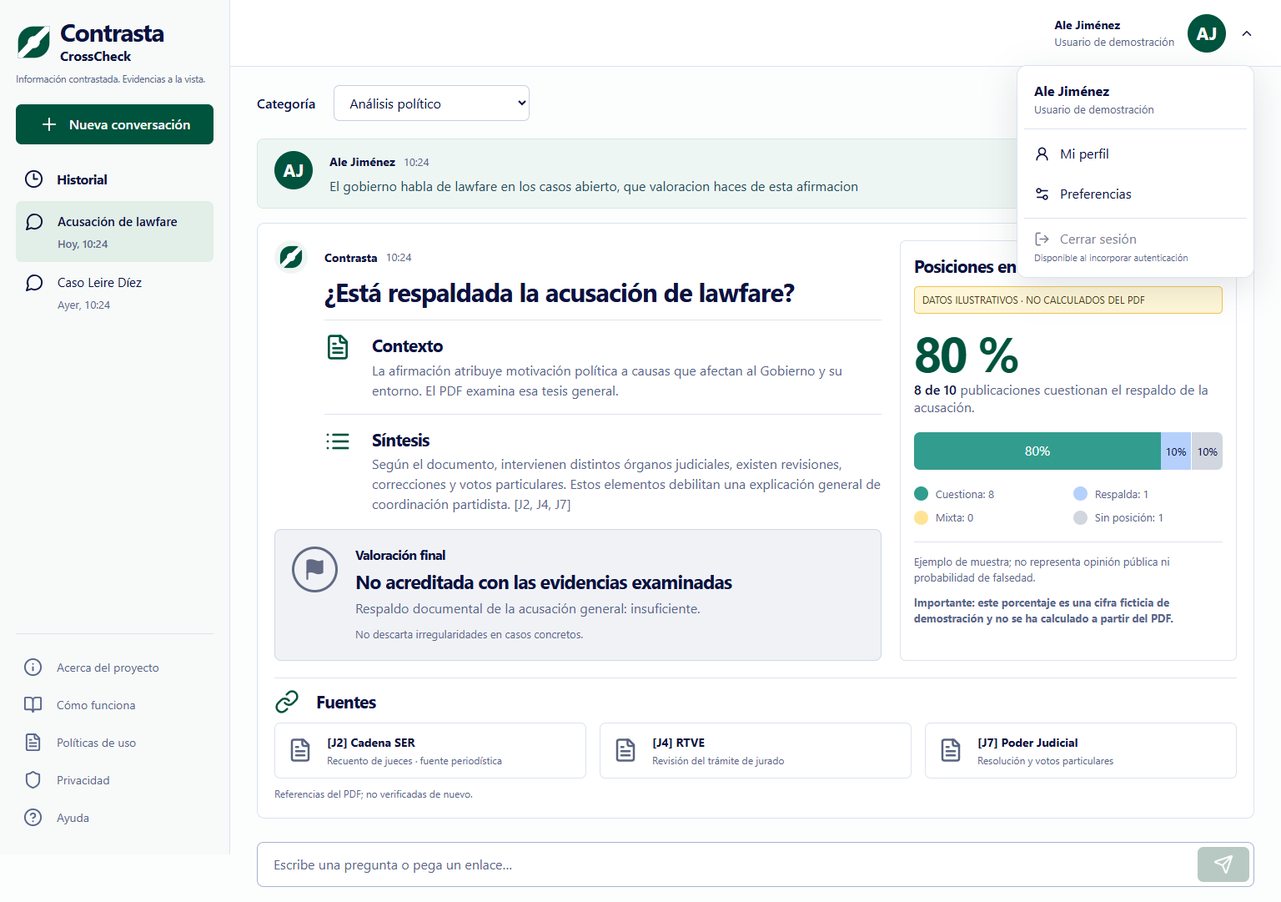
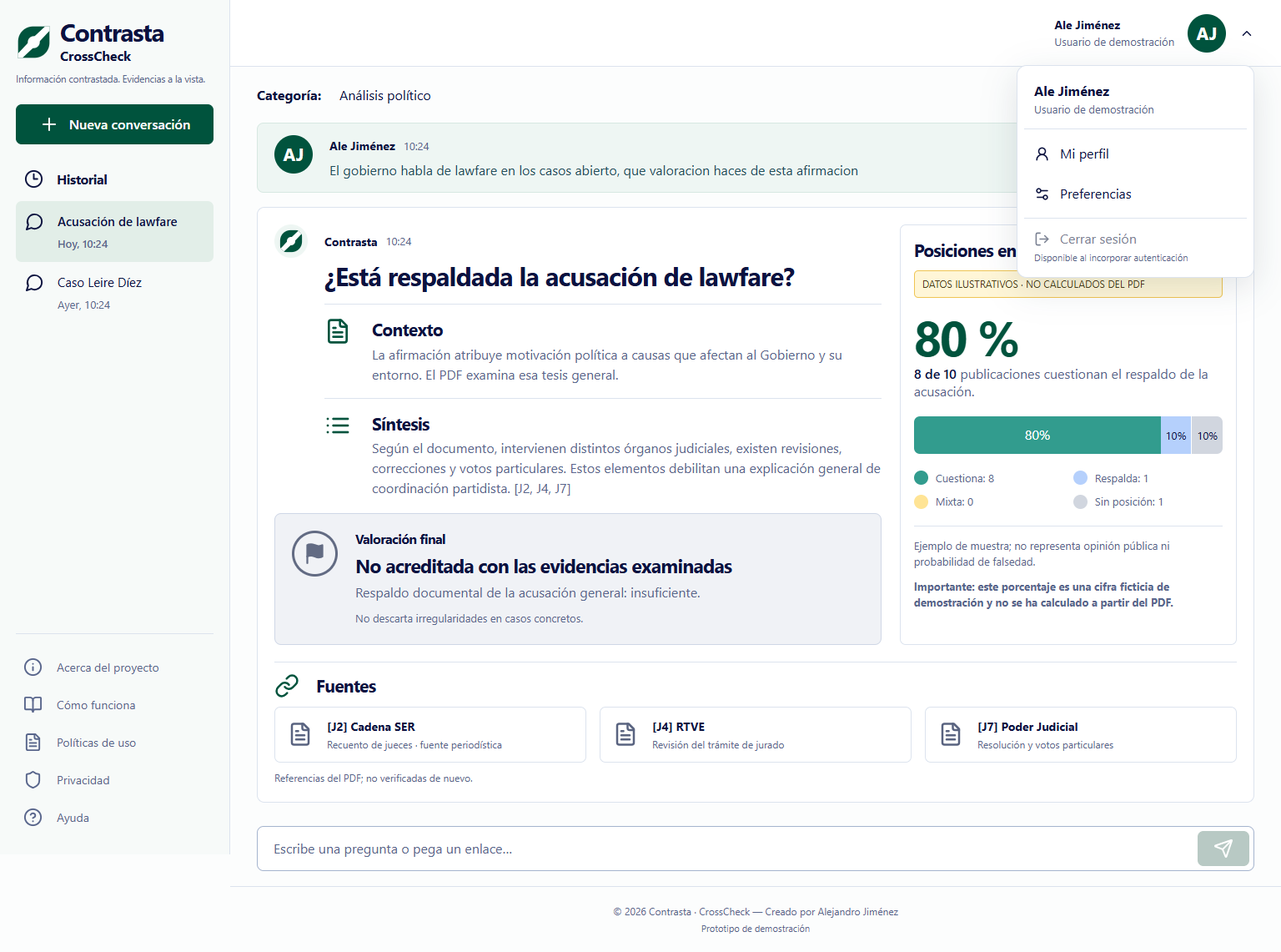
chore: update project from old location

diff --git a/POC/webapp/src/features/analysis/AnalysisPage.tsx b/POC/webapp/src/features/analysis/AnalysisPage.tsx
@@ -1,7 +1,7 @@
 import { useState } from 'react';
 import { FileText, Flag, Link as LinkIcon, List, Send } from 'lucide-react';
 import { demoAnalysis as data } from '../../mocks/analysis';
-import { CategorySelector } from '../../shared/ui/CategorySelector';
+import { categories } from '../../shared/model/categories';
 import { Dialog } from '../../shared/ui/Dialog';
 import s from './Analysis.module.css';
 
@@ -9,7 +9,7 @@ export function AnalysisPage() {
   const [source, setSource] = useState<typeof data.sources[number] | null>(null);
   const [followUp, setFollowUp] = useState('');
   const [notice, setNotice] = useState('');
-  return <div className={s.page}><div className={s.toolbar}><div><CategorySelector /></div><small>Basado en el PDF aportado · Corte: 11/09/2026</small></div><section className={s.message} aria-label="Consulta de demostración"><span className="avatar">AJ</span><div><strong>Ale Jiménez</strong><time>10:24</time><p>{data.query}</p></div></section><div className={s.report}><article className={s.article}><div className={s.author}><img src="/assets/brand.svg" alt="" /><strong>Contrasta</strong><time>10:24</time></div><h1>{data.title}</h1><section className={s.textSection}><FileText /><div><h2>Contexto</h2><p>{data.context}</p></div></section><section className={s.textSection}><List /><div><h2>Síntesis</h2><p>{data.summary}</p></div></section><section className={s.verdict}><span className={s.flag}><Flag /></span><div><h2>Valoración final</h2><h3>{data.verdict}</h3><p>Respaldo documental de la acusación general: insuficiente.</p><small>No descarta irregularidades en casos concretos.</small></div></section></article>
+  return <div className={s.page}><div className={s.toolbar}><div><strong>Categoría:</strong><span>{categories[0].name}</span></div><small>Basado en el PDF aportado · Corte: 11/09/2026</small></div><section className={s.message} aria-label="Consulta de demostración"><span className="avatar">AJ</span><div><strong>Ale Jiménez</strong><time>10:24</time><p>{data.query}</p></div></section><div className={s.report}><article className={s.article}><div className={s.author}><img src="/assets/brand.svg" alt="" /><strong>Contrasta</strong><time>10:24</time></div><h1>{data.title}</h1><section className={s.textSection}><FileText /><div><h2>Contexto</h2><p>{data.context}</p></div></section><section className={s.textSection}><List /><div><h2>Síntesis</h2><p>{data.summary}</p></div></section><section className={s.verdict}><span className={s.flag}><Flag /></span><div><h2>Valoración final</h2><h3>{data.verdict}</h3><p>Respaldo documental de la acusación general: insuficiente.</p><small>No descarta irregularidades en casos concretos.</small></div></section></article>
       <aside className={s.positions}><h2>Posiciones en las publicaciones</h2><span className={s.warning}>Datos ilustrativos · no calculados del PDF</span><strong className={s.percentage}>80 %</strong><p><strong>8 de 10</strong> publicaciones cuestionan el respaldo de la acusación.</p><div className={s.bar} role="img" aria-label="Cuestiona 80 %, respalda 10 %, mixta 0 %, sin posición 10 %"><span>80%</span><span>10%</span><span>10%</span></div><ul className={s.legend}><li>Cuestiona: 8</li><li>Respalda: 1</li><li>Mixta: 0</li><li>Sin posición: 1</li></ul><div className={s.scope}><p>Ejemplo de muestra; no representa opinión pública ni probabilidad de falsedad.</p><p><strong>Importante: este porcentaje es una cifra ficticia de demostración y no se ha calculado a partir del PDF.</strong></p></div></aside>
       <section className={s.sources}><h2><LinkIcon />Fuentes</h2><div>{data.sources.map(item => <button key={item.id} onClick={() => setSource(item)}><FileText /><span><strong>[{item.id}] {item.name}</strong><small>{item.description}</small></span></button>)}</div><small>Referencias del PDF; no verificadas de nuevo.</small></section></div>
     <form className={s.composer} onSubmit={e => { e.preventDefault(); if (followUp.trim()) { setNotice('Prototipo: el análisis mostrado es un ejemplo fijo. Los seguimientos estarán disponibles al conectar el servicio de análisis.'); setFollowUp(''); } }}><label className="srOnly" htmlFor="follow-up">Pregunta de seguimiento</label><input id="follow-up" value={followUp} onChange={e => setFollowUp(e.target.value)} placeholder="Escribe una pregunta o pega un enlace…" /><button className="primary" disabled={!followUp.trim()} aria-label="Enviar seguimiento"><Send /></button></form>{notice && <p className={s.notice} role="status">{notice}</p>}

diff --git a/POC/webapp/src/features/home/HomePage.tsx b/POC/webapp/src/features/home/HomePage.tsx
@@ -1,8 +1,9 @@
 import { useRef, useState } from 'react';
 import { useNavigate } from 'react-router-dom';
-import { ArrowRight, ChevronRight, FileText, Link as LinkIcon, MessageCircle } from 'lucide-react';
+import { TriangleAlert, ArrowRight, ChevronRight, FileText, Link as LinkIcon, MessageCircle } from 'lucide-react';
 import { CategorySelector } from '../../shared/ui/CategorySelector';
 import s from './Home.module.css';
+import { categories } from '../../shared/model/categories';
 
 const ideas = [
   { text: '¿Qué evidencias respaldan esta declaración?', icon: MessageCircle },
@@ -11,10 +12,12 @@ const ideas = [
 ];
 export function HomePage() {
   const [query, setQuery] = useState('');
+  const [categoryId, setCategoryId] = useState(categories[0].id);
+  const category = categories.find(item => item.id === categoryId)!;
   const input = useRef<HTMLTextAreaElement>(null);
   const navigate = useNavigate();
   return <div className={s.page}><div className={s.intro}><div className={s.bubble}><MessageCircle /></div><h1>¿Qué información quieres contrastar?</h1><p>Plantea una afirmación o comparte un enlace.<br />Consulta el análisis, sus fuentes y la valoración final.</p></div>
-    <form className={s.form} onSubmit={e => { e.preventDefault(); if (query.trim()) navigate('/resultados'); }}><div className={s.category}><CategorySelector /></div><div className={s.description}><FileText /><p>Contrasta afirmaciones y declaraciones políticas, comprende su contexto y distingue hechos documentados, opiniones e interpretaciones.</p></div><label htmlFor="query">Tu consulta</label><textarea ref={input} id="query" value={query} onChange={e => setQuery(e.target.value)} placeholder="Escribe una pregunta, una afirmación o pega un enlace…" aria-describedby="query-help" /><div className={s.formFooter}><small id="query-help">Admite texto y enlaces</small><button className="primary" type="submit" disabled={!query.trim()}>Analizar<ArrowRight size={20} /></button></div></form>
-    <section className={s.suggestions}><h2>Prueba con una idea</h2><div className={s.ideas}>{ideas.map(({ text, icon: Icon }) => <button key={text} onClick={() => { setQuery(text); input.current?.focus(); }}><Icon /><span>{text}</span><ChevronRight className={s.chevron} /></button>)}</div><p>Selecciona un ejemplo y completa tu consulta antes de analizar.</p></section>
+    <form className={s.form} onSubmit={e => { e.preventDefault(); if (category.available && query.trim()) navigate('/resultados'); }}><div className={s.category}><CategorySelector value={categoryId} onChange={setCategoryId} /></div><div className={s.description}><FileText /><p id="category-description">{category.description}</p></div><div id="category-availability" role="status">{!category.available && <p className={s.unavailable}><TriangleAlert size={20} /><span>Esta categoría aún no está disponible. Próximamente podrás realizar consultas sobre este tema.</span></p>}</div><label htmlFor="query">Tu consulta</label><textarea ref={input} id="query" disabled={!category.available} value={query} onChange={e => setQuery(e.target.value)} placeholder="Escribe una pregunta, una afirmación o pega un enlace…" aria-describedby="query-help" /><div className={s.formFooter}><small id="query-help">Admite texto y enlaces</small><button className="primary" type="submit" disabled={!category.available || !query.trim()}>Analizar<ArrowRight size={20} /></button></div></form>
+    <section className={s.suggestions}><h2>Prueba con una idea</h2><div className={s.ideas}>{ideas.map(({ text, icon: Icon }) => <button key={text} disabled={!category.available} onClick={() => { setQuery(text); input.current?.focus(); }}><Icon /><span>{text}</span><ChevronRight className={s.chevron} /></button>)}</div><p>Selecciona un ejemplo y completa tu consulta antes de analizar.</p></section>
   </div>;
 }

diff --git a/POC/webapp/src/shared/ui/CategorySelector.tsx b/POC/webapp/src/shared/ui/CategorySelector.tsx
@@ -1,3 +1,52 @@
-export function CategorySelector() {
-  return <><label htmlFor="category">Categoría</label><select id="category" defaultValue="political"><option value="political">Análisis político</option></select></>;
+import { categories } from '../model/categories';
+import { useEffect, useRef, useState, type KeyboardEvent } from 'react';
+import { Check, ChevronDown } from 'lucide-react';
+import s from './CategorySelector.module.css';
+
+export function CategorySelector({ value, onChange }: { value: string; onChange: (value: string) => void }) {
+  const selected = categories.findIndex(category => category.id === value);
+  const [open, setOpen] = useState(false);
+  const [active, setActive] = useState(selected);
+  const root = useRef<HTMLDivElement>(null);
+  const search = useRef({ text: '', time: 0 });
+  useEffect(() => {
+    if (!open) return;
+    const outside = (event: PointerEvent) => {
+      if (!root.current?.contains(event.target as Node)) setOpen(false);
+    };
+    document.addEventListener('pointerdown', outside);
+    return () => document.removeEventListener('pointerdown', outside);
+  }, [open]);
+  useEffect(() => {
+    if (open) root.current?.querySelector(`#category-option-${active}`)?.scrollIntoView({ block: 'nearest' });
+  }, [open, active]);
+  function keyDown(event: KeyboardEvent<HTMLButtonElement>) {
+    if (event.key === 'Tab') { setOpen(false); return; }
+    if (event.key === 'Escape') { event.preventDefault(); setOpen(false); return; }
+    if (['ArrowDown', 'ArrowUp', 'Home', 'End'].includes(event.key)) {
+      event.preventDefault();
+      setOpen(true);
+      setActive(event.key === 'Home' ? 0 : event.key === 'End' ? categories.length - 1 :
+        !open ? selected : Math.max(0, Math.min(categories.length - 1, active + (event.key === 'ArrowDown' ? 1 : -1))));
+    } else if (event.key === 'Enter' || event.key === ' ') {
+      event.preventDefault();
+      if (open) { onChange(categories[active].id); setOpen(false); }
+      else { setActive(selected); setOpen(true); }
+    } else if (event.key.length === 1 && !event.ctrlKey && !event.metaKey && !event.altKey) {
+      event.preventDefault();
+      const text = (Date.now() - search.current.time < 700 ? search.current.text : '') + event.key;
+      search.current = { text, time: Date.now() };
+      const match = categories.findIndex(category => category.name.toLocaleLowerCase('es').startsWith(text.toLocaleLowerCase('es')));
+      if (match >= 0) { setActive(match); setOpen(true); }
+    }
+  }
+  return <div ref={root} className={s.root} onBlur={event => { if (!event.currentTarget.contains(event.relatedTarget)) setOpen(false); }}>
+    <label id="category-label" htmlFor="category">Categoría</label>
+    <button type="button" id="category" role="combobox" aria-labelledby="category-label category-value" aria-haspopup="listbox" aria-expanded={open} aria-controls="category-options" aria-activedescendant={open ? `category-option-${active}` : undefined} aria-describedby="category-description category-availability" className={s.trigger} onKeyDown={keyDown} onClick={() => { setActive(selected); setOpen(!open); }}>
+      <span id="category-value">{categories[selected].name}</span><ChevronDown size={18} />
+    </button>
+    {open && <ul id="category-options" role="listbox" aria-labelledby="category-label" className={s.options}>
+      {categories.map((category, index) => <li id={`category-option-${index}`} key={category.id} role="option" aria-selected={category.id === value} className={index === active ? s.active : undefined} onPointerDown={event => event.preventDefault()} onClick={() => { onChange(category.id); setOpen(false); }}><span>{category.name}</span>{category.id === value && <Check size={18} aria-hidden="true" />}</li>)}
+    </ul>}
+  </div>;
 }

diff --git a/POC/webapp/src/app/App.tsx b/POC/webapp/src/app/App.tsx
@@ -22,7 +22,7 @@ export function App() {
   useEffect(() => { setMobile(false); window.scrollTo(0, 0); }, [location]);
   useEffect(() => { if (mobile) drawer.current?.showModal(); else drawer.current?.close(); }, [mobile]);
   const navigation = <><Link className="primary newConversation" to="/" onClick={() => setMobile(false)}><Plus />Nueva conversación</Link><div className={s.history}><h2><Clock3 />Historial</h2><Link className={location.pathname === '/resultados' ? s.selected : ''} to="/resultados"><MessageCircle /><span>Acusación de lawfare<small>Hoy, 10:24</small></span></Link><button onClick={() => { setMobile(false); setSection('Caso Leire Díez'); }}><MessageCircle /><span>Caso Leire Díez<small>Ayer, 10:24</small></span></button></div><nav className={s.footer} aria-label="Información del proyecto">{sections.map(({ title, icon: Icon }) => <button key={title} onClick={() => { setMobile(false); setSection(title); }}><Icon />{title}</button>)}</nav></>;
-  return <div className={s.shell}><a className="skipLink" href="#main">Saltar al contenido</a><aside className={s.sidebar}><Link to="/" aria-label="Contrasta, inicio"><Brand /></Link>{navigation}</aside><header className={s.header}><button className={`iconButton ${s.mobileToggle}`} aria-label="Abrir navegación" aria-expanded={mobile} onClick={() => setMobile(true)}><Menu /></button><Link className={s.mobileBrand} to="/" aria-label="Contrasta, inicio"><Brand /></Link><AccountMenu onSelect={setSection} /></header><main id="main" className={s.main}><Outlet /></main>
+  return <div className={s.shell}><a className="skipLink" href="#main">Saltar al contenido</a><aside className={s.sidebar}><Link to="/" aria-label="Contrasta, inicio"><Brand /></Link>{navigation}</aside><header className={s.header}><button className={`iconButton ${s.mobileToggle}`} aria-label="Abrir navegación" aria-expanded={mobile} onClick={() => setMobile(true)}><Menu /></button><Link className={s.mobileBrand} to="/" aria-label="Contrasta, inicio"><Brand /></Link><AccountMenu onSelect={setSection} /></header><main id="main" className={s.main}><Outlet /></main><footer className={s.pageFooter}><p>© {new Date().getFullYear()} Contrasta · CrossCheck — Creado por Alejandro Jiménez</p><small>Prototipo de demostración</small></footer>
     <dialog ref={drawer} className={s.drawer} onCancel={() => setMobile(false)} onClick={e => { if (e.target === e.currentTarget) setMobile(false); }} aria-label="Navegación"><div className={s.drawerContent}><div className={s.drawerHead}><Brand /><button className="iconButton" aria-label="Cerrar navegación" onClick={() => setMobile(false)}><X /></button></div>{navigation}</div></dialog>
     {section && <Dialog title={section} onClose={() => setSection(null)}>{section === 'Mi perfil' ? <><span className="avatar">AJ</span><h3>Ale Jiménez</h3><p>Usuario de demostración</p><p>Este perfil ilustra el menú de cuenta del prototipo.</p></> : section === 'Preferencias' ? <><p>Apariencia</p><div className="preference"><span>Tema claro</span><span className="pill">Activo</span></div><p>El prototipo utiliza la apariencia de los mockups v4. Las opciones de tema estarán disponibles en una próxima versión.</p></> : <p>{sections.find(item => item.title === section)?.text ?? 'Esta conversación aparece como ejemplo visual en el historial. El análisis disponible en este prototipo es «Acusación de lawfare».'}</p>}</Dialog>}
   </div>;

diff --git a/POC/webapp/src/shared/model/categories.ts b/POC/webapp/src/shared/model/categories.ts
@@ -1,0 +1,62 @@
+export const categories = [
+  {
+    "id": "political",
+    "name": "Análisis político",
+    "description": "Contrasta afirmaciones y declaraciones políticas, aporta contexto y distingue hechos, posiciones e interpretaciones. Incluye el análisis de afirmaciones sobre causas judiciales vinculadas a la política, respetando estados procesales y evitando equiparar investigación con culpabilidad.",
+    "available": true
+  },
+  {
+    "id": "category-1",
+    "name": "Noticias falsas y bulos",
+    "description": "Examina noticias virales, cadenas y contenidos potencialmente inventados, manipulados o fuera de contexto; busca su origen y evidencias que los respalden o contradigan.",
+    "available": false
+  },
+  {
+    "id": "category-2",
+    "name": "Sociedad, medios y entretenimiento",
+    "description": "Analiza audiencias de televisión, fenómenos sociales, celebridades y afirmaciones sobre contenidos culturales. Distingue datos verificables, declaraciones e interpretaciones.",
+    "available": false
+  },
+  {
+    "id": "category-3",
+    "name": "Consumo, ocio y viajes",
+    "description": "Contrasta comparaciones de productos, restaurantes, campings, alojamientos y servicios. Diferencia características comprobables, reseñas y preferencias; explicita los criterios de cada recomendación.",
+    "available": false
+  },
+  {
+    "id": "category-4",
+    "name": "Estafas, timos y publicidad engañosa",
+    "description": "Analiza ofertas sospechosas, suplantaciones, mensajes fraudulentos y promesas comerciales. Incluye consultas sobre posibles llamadas fraudulentas, sin una categoría telefónica propia. Distingue señales de riesgo de engaños documentados y evita convertir la ausencia de alertas en garantía de seguridad.",
+    "available": false
+  },
+  {
+    "id": "category-5",
+    "name": "Salud y bienestar",
+    "description": "Examina afirmaciones sobre alimentación, suplementos, tratamientos y hábitos, atendiendo a la calidad de la evidencia y sus límites. No sustituye una valoración médica individual.",
+    "available": false
+  },
+  {
+    "id": "category-6",
+    "name": "Ciencia, tecnología y medioambiente",
+    "description": "Contrasta afirmaciones sobre descubrimientos, capacidades de la IA, privacidad, energía y cuestiones ambientales, diferenciando evidencia, hipótesis y expectativas.",
+    "available": false
+  },
+  {
+    "id": "category-7",
+    "name": "Datos y hechos históricos",
+    "description": "Examina fechas, acontecimientos, citas atribuidas y relatos históricos, diferenciando hechos documentados, interpretaciones historiográficas y controversias.",
+    "available": false
+  },
+  {
+    "id": "category-8",
+    "name": "Deportes",
+    "description": "Contrasta resultados, estadísticas, récords y declaraciones deportivas, precisando competición, temporada, categoría y fecha.",
+    "available": false
+  },
+  {
+    "id": "category-9",
+    "name": "General",
+    "description": "Permite analizar consultas que no encajen en ninguna categoría especializada. Delimita la afirmación, aporta contexto y contrasta las fuentes disponibles; solicita criterios o aclaraciones cuando sean necesarios y expresa los límites de la conclusión.",
+    "available": false
+  }
+];

diff --git a/POC/webapp/src/app/layout/Layout.module.css b/POC/webapp/src/app/layout/Layout.module.css
@@ -1,7 +1,10 @@
-.shell { min-height: 100dvh; padding-left: 276px; }
+.shell { display: flex; flex-direction: column; min-height: 100dvh; padding-left: 276px; }
 .sidebar { position: fixed; inset: 0 auto 0 0; width: 276px; padding: 22px 19px; border-right: 1px solid var(--border); display: flex; flex-direction: column; background: #f7faf9; overflow-y: auto; }
 .header { height: 80px; display: flex; align-items: center; justify-content: flex-end; padding: 12px 32px; border-bottom: 1px solid var(--border); background: white; }
-.main { min-width: 0; }
+.main { min-width: 0; flex: 1; }
+.pageFooter { padding: 20px 24px; border-top: 1px solid var(--border); text-align: center; color: var(--muted); font-size: 12px; }
+.pageFooter small { display: block; margin-top: 4px; font-size: 11px; }
+.header { flex-shrink: 0; }
 .history h2 { font-size: 16px; margin: 14px 10px 15px; display: flex; align-items: center; gap: 16px; letter-spacing: -.4px; }
 .history a, .history button { display: flex; width: 100%; padding: 13px 11px; gap: 16px; border-radius: 7px; text-align: left; font-size: 15px; }
 .history svg { flex-shrink: 0; width: 23px; height: 23px; }

diff --git a/POC/webapp/src/shared/ui/CategorySelector.module.css b/POC/webapp/src/shared/ui/CategorySelector.module.css
@@ -1,0 +1,8 @@
+.root { position: relative; min-width: 0; }
+.trigger { display: flex; align-items: center; justify-content: space-between; gap: 12px; width: 100%; min-height: 46px; margin-top: 5px; padding: 10px 14px; text-align: left; background: white; border: 1px solid var(--input-border); border-radius: 7px; }
+.trigger span { min-width: 0; white-space: normal; overflow-wrap: anywhere; }
+.trigger svg, .options svg { flex-shrink: 0; }
+.options { position: absolute; top: 100%; left: 0; right: 0; z-index: 20; margin: 5px 0 0; padding: 5px; list-style: none; max-height: min(320px, 45dvh); overflow-y: auto; overscroll-behavior: contain; background: white; border: 1px solid var(--input-border); border-radius: 8px; box-shadow: 0 8px 24px #13283820; }
+.options li { display: flex; align-items: center; justify-content: space-between; gap: 10px; min-height: 44px; padding: 10px; border-radius: 4px; cursor: pointer; white-space: normal; overflow-wrap: anywhere; line-height: 1.4; }
+.options li:hover, .options .active { background: var(--pale-green); color: var(--green); }
+.options [aria-selected='true'] { font-weight: 600; }

diff --git a/POC/webapp/src/features/home/Home.module.css b/POC/webapp/src/features/home/Home.module.css
@@ -42,3 +42,10 @@
   .ideas .chevron { display: block; width: 17px; height: 17px; margin-left: auto; color: var(--muted); }
   .suggestions > p { font-size: 12px; }
 }
+
+.category { min-width: 0; }
+.category select { min-width: 0; max-width: 100%; text-overflow: ellipsis; }
+.unavailable { display: flex; gap: 10px; align-items: flex-start; padding: 12px 14px; margin: -10px 0 22px; color: #725315; background: #fff6d7; border: 1px solid #efcf79; border-radius: 7px; font-size: 14px; }
+.unavailable svg { flex-shrink: 0; margin-top: 2px; }
+.form textarea:disabled { background: #f1f3f5; color: #7c8394; cursor: not-allowed; }
+.ideas button:disabled { opacity: .5; background: #f4f5f6; border-color: var(--border); }

diff --git a/Docs/requisitos-funcionales-poc-pre-mvp.md b/Docs/requisitos-funcionales-poc-pre-mvp.md
@@ -1,6 +1,6 @@
 # Requisitos y funcionalidad — PoC inicial (pre-MVP)
 
-- **Versión:** 1.1
+- **Versión:** 1.2
 - **Fecha:** 16 de septiembre de 2026
 - **Estado:** alcance acordado para la primera fase.
 - **Nombre definitivo:** pendiente. Los mockups utilizan «Contrasta», con «CrossCheck» como denominación secundaria y el lema «Información contrastada. Evidencias a la vista.». No implica disponibilidad de marca o dominio.
@@ -52,24 +52,27 @@ Cada categoría se asociará a un agente con instrucciones, criterios de contras
 | Categoría | Descripción | Disponibilidad |
 |---|---|---|
 | **Análisis político** | Contrasta afirmaciones y declaraciones políticas, aporta contexto y distingue hechos, posiciones e interpretaciones. Incluye el análisis de afirmaciones sobre causas judiciales vinculadas a la política, respetando estados procesales y evitando equiparar investigación con culpabilidad. | Única categoría activa |
-| **Noticias falsas o bulos** | Examina contenidos potencialmente falsos, manipulados o descontextualizados; busca su origen y evidencias que los respalden o contradigan. | Futura |
-| **Deportes** | Contrasta resultados, estadísticas, récords y afirmaciones deportivas, precisando competición, temporada, categoría y fecha. | Futura |
-| **Datos y hechos históricos** | Examina fechas, acontecimientos y relatos históricos, diferenciando hechos documentados, interpretaciones historiográficas y controversias. | Futura |
-| **Estafas publicitarias y timos** | Analiza ofertas, promociones y mensajes para identificar promesas engañosas e indicios de fraude. Distingue señales de riesgo de engaños documentados y evita convertir la ausencia de alertas en garantía de seguridad. | Futura |
-| **Sociedad** | Analiza afirmaciones sobre actualidad social, televisión, entretenimiento, ocio, turismo, hostelería y servicios cotidianos. Incluye comparaciones de audiencias, establecimientos y recomendaciones, distinguiendo datos verificables, valoraciones de usuarios y preferencias personales. | Futura |
+| **Noticias falsas y bulos** | Examina noticias virales, cadenas y contenidos potencialmente inventados, manipulados o fuera de contexto; busca su origen y evidencias que los respalden o contradigan. | Futura |
+| **Sociedad, medios y entretenimiento** | Analiza audiencias de televisión, fenómenos sociales, celebridades y afirmaciones sobre contenidos culturales. Distingue datos verificables, declaraciones e interpretaciones. | Futura |
+| **Consumo, ocio y viajes** | Contrasta comparaciones de productos, restaurantes, campings, alojamientos y servicios. Diferencia características comprobables, reseñas y preferencias; explicita los criterios de cada recomendación. | Futura |
+| **Estafas, timos y publicidad engañosa** | Analiza ofertas sospechosas, suplantaciones, mensajes fraudulentos y promesas comerciales. Incluye consultas sobre posibles llamadas fraudulentas, sin una categoría telefónica propia. Distingue señales de riesgo de engaños documentados y evita convertir la ausencia de alertas en garantía de seguridad. | Futura |
+| **Salud y bienestar** | Examina afirmaciones sobre alimentación, suplementos, tratamientos y hábitos, atendiendo a la calidad de la evidencia y sus límites. No sustituye una valoración médica individual. | Futura |
+| **Ciencia, tecnología y medioambiente** | Contrasta afirmaciones sobre descubrimientos, capacidades de la IA, privacidad, energía y cuestiones ambientales, diferenciando evidencia, hipótesis y expectativas. | Futura |
+| **Datos y hechos históricos** | Examina fechas, acontecimientos, citas atribuidas y relatos históricos, diferenciando hechos documentados, interpretaciones historiográficas y controversias. | Futura |
+| **Deportes** | Contrasta resultados, estadísticas, récords y declaraciones deportivas, precisando competición, temporada, categoría y fecha. | Futura |
 | **General** | Permite analizar consultas que no encajen en ninguna categoría especializada. Delimita la afirmación, aporta contexto y contrasta las fuentes disponibles; solicita criterios o aclaraciones cuando sean necesarios y expresa los límites de la conclusión. | Futura |
 
 Las categorías futuras se documentan como evolución del producto; no se muestran como opciones seleccionables en esta PoC.
 
 **Una conversación tiene una categoría inmutable. Cambiar de categoría requerirá una nueva conversación.**
 
-### 3.1. Ejemplos y criterios de Sociedad
+### 3.1. Ejemplos de Sociedad y de Consumo, ocio y viajes
 
 Los siguientes ejemplos ilustran consultas admitidas; no constituyen afirmaciones verificadas ni recomendaciones del producto:
 
-- «El Hormiguero es el programa más visto en su franja horaria, por encima de La Revuelta». El análisis debe precisar fechas, franja coincidente y métrica de audiencia: espectadores, cuota u otra medida comparable.
-- «El camping Taiga Conil es más recomendable que el Camping Roche en Conil». El análisis debe explicitar los criterios de comparación —ubicación, instalaciones, precio, servicios o tipo de viaje— y separar características verificables de reseñas y preferencias.
-- «Casa Mané es uno de los mejores restaurantes de Cádiz». El análisis debe delimitar el ámbito geográfico y qué significa «mejor», diferenciando reconocimientos documentados, valoraciones de clientes y opinión subjetiva.
+- **Sociedad, medios y entretenimiento:** «El Hormiguero es el programa más visto en su franja horaria, por encima de La Revuelta». El análisis debe precisar fechas, franja coincidente y métrica de audiencia: espectadores, cuota u otra medida comparable.
+- **Consumo, ocio y viajes:** «El camping Taiga Conil es más recomendable que el Camping Roche en Conil». El análisis debe explicitar los criterios de comparación —ubicación, instalaciones, precio, servicios o tipo de viaje— y separar características verificables de reseñas y preferencias.
+- **Consumo, ocio y viajes:** «Casa Mané es uno de los mejores restaurantes de Cádiz». El análisis debe delimitar el ámbito geográfico y qué significa «mejor», diferenciando reconocimientos documentados, valoraciones de clientes y opinión subjetiva.
 
 En comparaciones y recomendaciones, el agente no debe convertir una preferencia en una verdad universal. Si faltan criterios, los solicitará o hará explícitos los utilizados. Las reseñas no se considerarán automáticamente representativas ni equivalentes a evidencias de calidad objetiva. Si no procede un veredicto factual único, se utilizará una valoración matizada, interpretación u opinión, o sin veredicto único.
 
@@ -77,7 +80,13 @@ En comparaciones y recomendaciones, el agente no debe convertir una preferencia 
 
 General será la opción de cobertura para asuntos no contemplados en las categorías especializadas. No activará una reclasificación automática de una conversación existente: se conserva la categoría seleccionada al iniciarla. Si el asunto requiere otra especialidad, podrá sugerirse abrir una nueva conversación en la categoría correspondiente.
 
-El catálogo previsto queda compuesto por siete categorías. Sociedad y General se incorporan al catálogo futuro; esta revisión no amplía las categorías operativas de la PoC, que sigue incluyendo únicamente Análisis político.
+### 3.3. Selección y solapamientos
+
+Se elegirá la categoría temática cuando el asunto esté claro. «Noticias falsas y bulos» se orienta a verificar contenido viral de origen dudoso; «Estafas, timos y publicidad engañosa», a consultas centradas en un posible fraude o engaño comercial. «General» cubre asuntos sin encaje claro o cuya clasificación el usuario desconozca.
+
+La separación entre Sociedad y Consumo permite especializar el análisis: comparar audiencias requiere métricas y periodos comparables; recomendar un establecimiento exige criterios y preferencias explícitos. La categoría elegida no predetermina el veredicto.
+
+El catálogo previsto queda compuesto por **diez categorías**. Esta revisión no amplía las categorías operativas de la PoC, que sigue incluyendo únicamente **Análisis político**; las otras nueve quedan para fases posteriores.
 
 ## 4. Análisis desde el buscador o editor de consulta
 

diff --git a/Mockups/README-v5.md b/Mockups/README-v5.md
@@ -1,0 +1,18 @@
+# Mockups de resultados v5
+
+Generados mediante imagegen integrado, editando v4. Versiones anteriores y pantallas de inicio conservadas.
+
+## Cambio
+
+Panel «Respaldo en las publicaciones analizadas»: 10 % respalda la afirmación, 1 de 10 publicaciones. Leyenda: verde Respalda 1; amarillo Mixta 0; gris Sin posición 1; rojo Cuestiona 8. Barra predominantemente roja. La bandera documental permanece gris: «No acreditada con las evidencias examinadas».
+
+Cifras exclusivamente ilustrativas, no calculadas del PDF. No representan opinión pública ni probabilidad de falsedad. Al implementar, los anchos de los segmentos deben calcularse exactamente con los datos (10 %, 0 %, 10 %, 80 %); las imágenes generadas son referencias visuales, no gráficos métricos.
+
+## Prompt desktop
+
+Edit this DESKTOP screenshot preserving landscape size and sidebar. Change ONLY the publications statistics panel into v5, preserve all other Spanish text, branding Contrasta/CrossCheck, category, query, sources, user, composition, neutral GRAY FLAG and verdict 'No acreditada con las evidencias examinadas'. New panel title 'Respaldo en las publicaciones analizadas'. Keep conspicuous badge 'DATOS ILUSTRATIVOS · NO CALCULADOS DEL PDF'. Main big number '10 %' in dark green with label 'respalda la afirmación'. Below: '1 de las 10 publicaciones analizadas respalda la acusación.' Horizontal stacked bar exact proportions left to right: GREEN 10% supports; GRAY 10% no position; RED 80% questions. No blue/cyan segment. Zero mixed has no segment. Labels 10%,10%,80% inside respective segments. Legend all four categories in this order: GREEN dot 'Respalda: 1'; YELLOW dot 'Mixta: 0'; GRAY dot 'Sin posición: 1'; RED dot 'Cuestiona: 8'. Predominantly red bar, not a red verdict card. Preserve disclaimer 'Ejemplo de muestra; no representa opinión pública ni probabilidad de falsedad.' and note that percentage is fictional demonstration not computed from PDF. Keep clear readable text and balanced margins. Do not change any factual content elsewhere. Exact static image editing not a new research result.
+
+## Prompt mobile
+
+Edit MOBILE reference 1 into mobile v5, preserve portrait dimensions and all original content outside statistics panel. Reference 2 desktop v5 is style reference for changed panel. Change ONLY the publications statistics panel into v5, preserve all other Spanish text, branding Contrasta/CrossCheck, category, query, sources, user, composition, neutral GRAY FLAG and verdict 'No acreditada con las evidencias examinadas'. New panel title 'Respaldo en las publicaciones analizadas'. Keep conspicuous badge 'DATOS ILUSTRATIVOS · NO CALCULADOS DEL PDF'. Main big number '10 %' in dark green with label 'respalda la afirmación'. Below: '1 de las 10 publicaciones analizadas respalda la acusación.' Horizontal stacked bar exact proportions left to right: GREEN 10% supports; GRAY 10% no position; RED 80% questions. No blue/cyan segment. Zero mixed has no segment. Labels 10%,10%,80% inside respective segments. Legend all four categories in this order: GREEN dot 'Respalda: 1'; YELLOW dot 'Mixta: 0'; GRAY dot 'Sin posición: 1'; RED dot 'Cuestiona: 8'. Predominantly red bar, not a red verdict card. Preserve disclaimer 'Ejemplo de muestra; no representa opinión pública ni probabilidad de falsedad.' and note that percentage is fictional demonstration not computed from PDF. Keep clear readable text and balanced margins. Do not change any factual content elsewhere. Exact static image editing not a new research result. VERY IMPORTANT stacked bar geometric segment widths accurately correspond to percentages, e.g. full width 700 units green 70, gray 70, red 560. Red must occupy EXACTLY four fifths of the entire bar. Do not give 10% segments extra width to fit text; put labels below if needed.
+

diff --git a/POC/webapp/README.md b/POC/webapp/README.md
@@ -22,8 +22,8 @@ React, TypeScript, Vite, React Router, CSS Modules y Lucide. El hosting debe red
 
 ## Alcance
 
-- `/`: inicio; Analizar se desactiva para entradas vacías o compuestas solo por espacios. Las ideas rellenan el campo sin enviar.
-- `/resultados`: informe fijo ilustrativo, independientemente del texto introducido. La consulta mostrada también pertenece al ejemplo.
+- `/`: inicio con diez categorías y descripciones del documento de requisitos; solo Análisis político permite escribir y enviar. Las categorías futuras muestran un aviso y desactivan editor, ejemplos y envío, conservando el borrador al volver. Analizar se desactiva para entradas vacías o compuestas solo por espacios. Las ideas rellenan el campo sin enviar.
+- `/resultados`: categoría fija como texto e informe fijo ilustrativo, independientemente del texto introducido. La consulta mostrada también pertenece al ejemplo.
 - Cuenta desplegable con cierre mediante segundo clic, clic fuera y Escape.
 - Navegación móvil con diálogo modal, foco contenido y cierre con Escape.
 - Perfil, preferencias, información y fuentes mediante diálogos. El tema claro es el único implementado; no hay autenticación.
@@ -32,3 +32,5 @@ React, TypeScript, Vite, React Router, CSS Modules y Lucide. El hosting debe red
 - Sin backend, OpenAI ni persistencia. Datos de ejemplo separados en `src/mocks/analysis.ts`.
 
 Los estilos se organizan por funcionalidad y comparten variables de diseño en `src/shared/styles/tokens.css`.
+
+Pie compartido en ambas páginas con año automático, nombre del proyecto, creador Alejandro Jiménez y etiqueta de prototipo.
